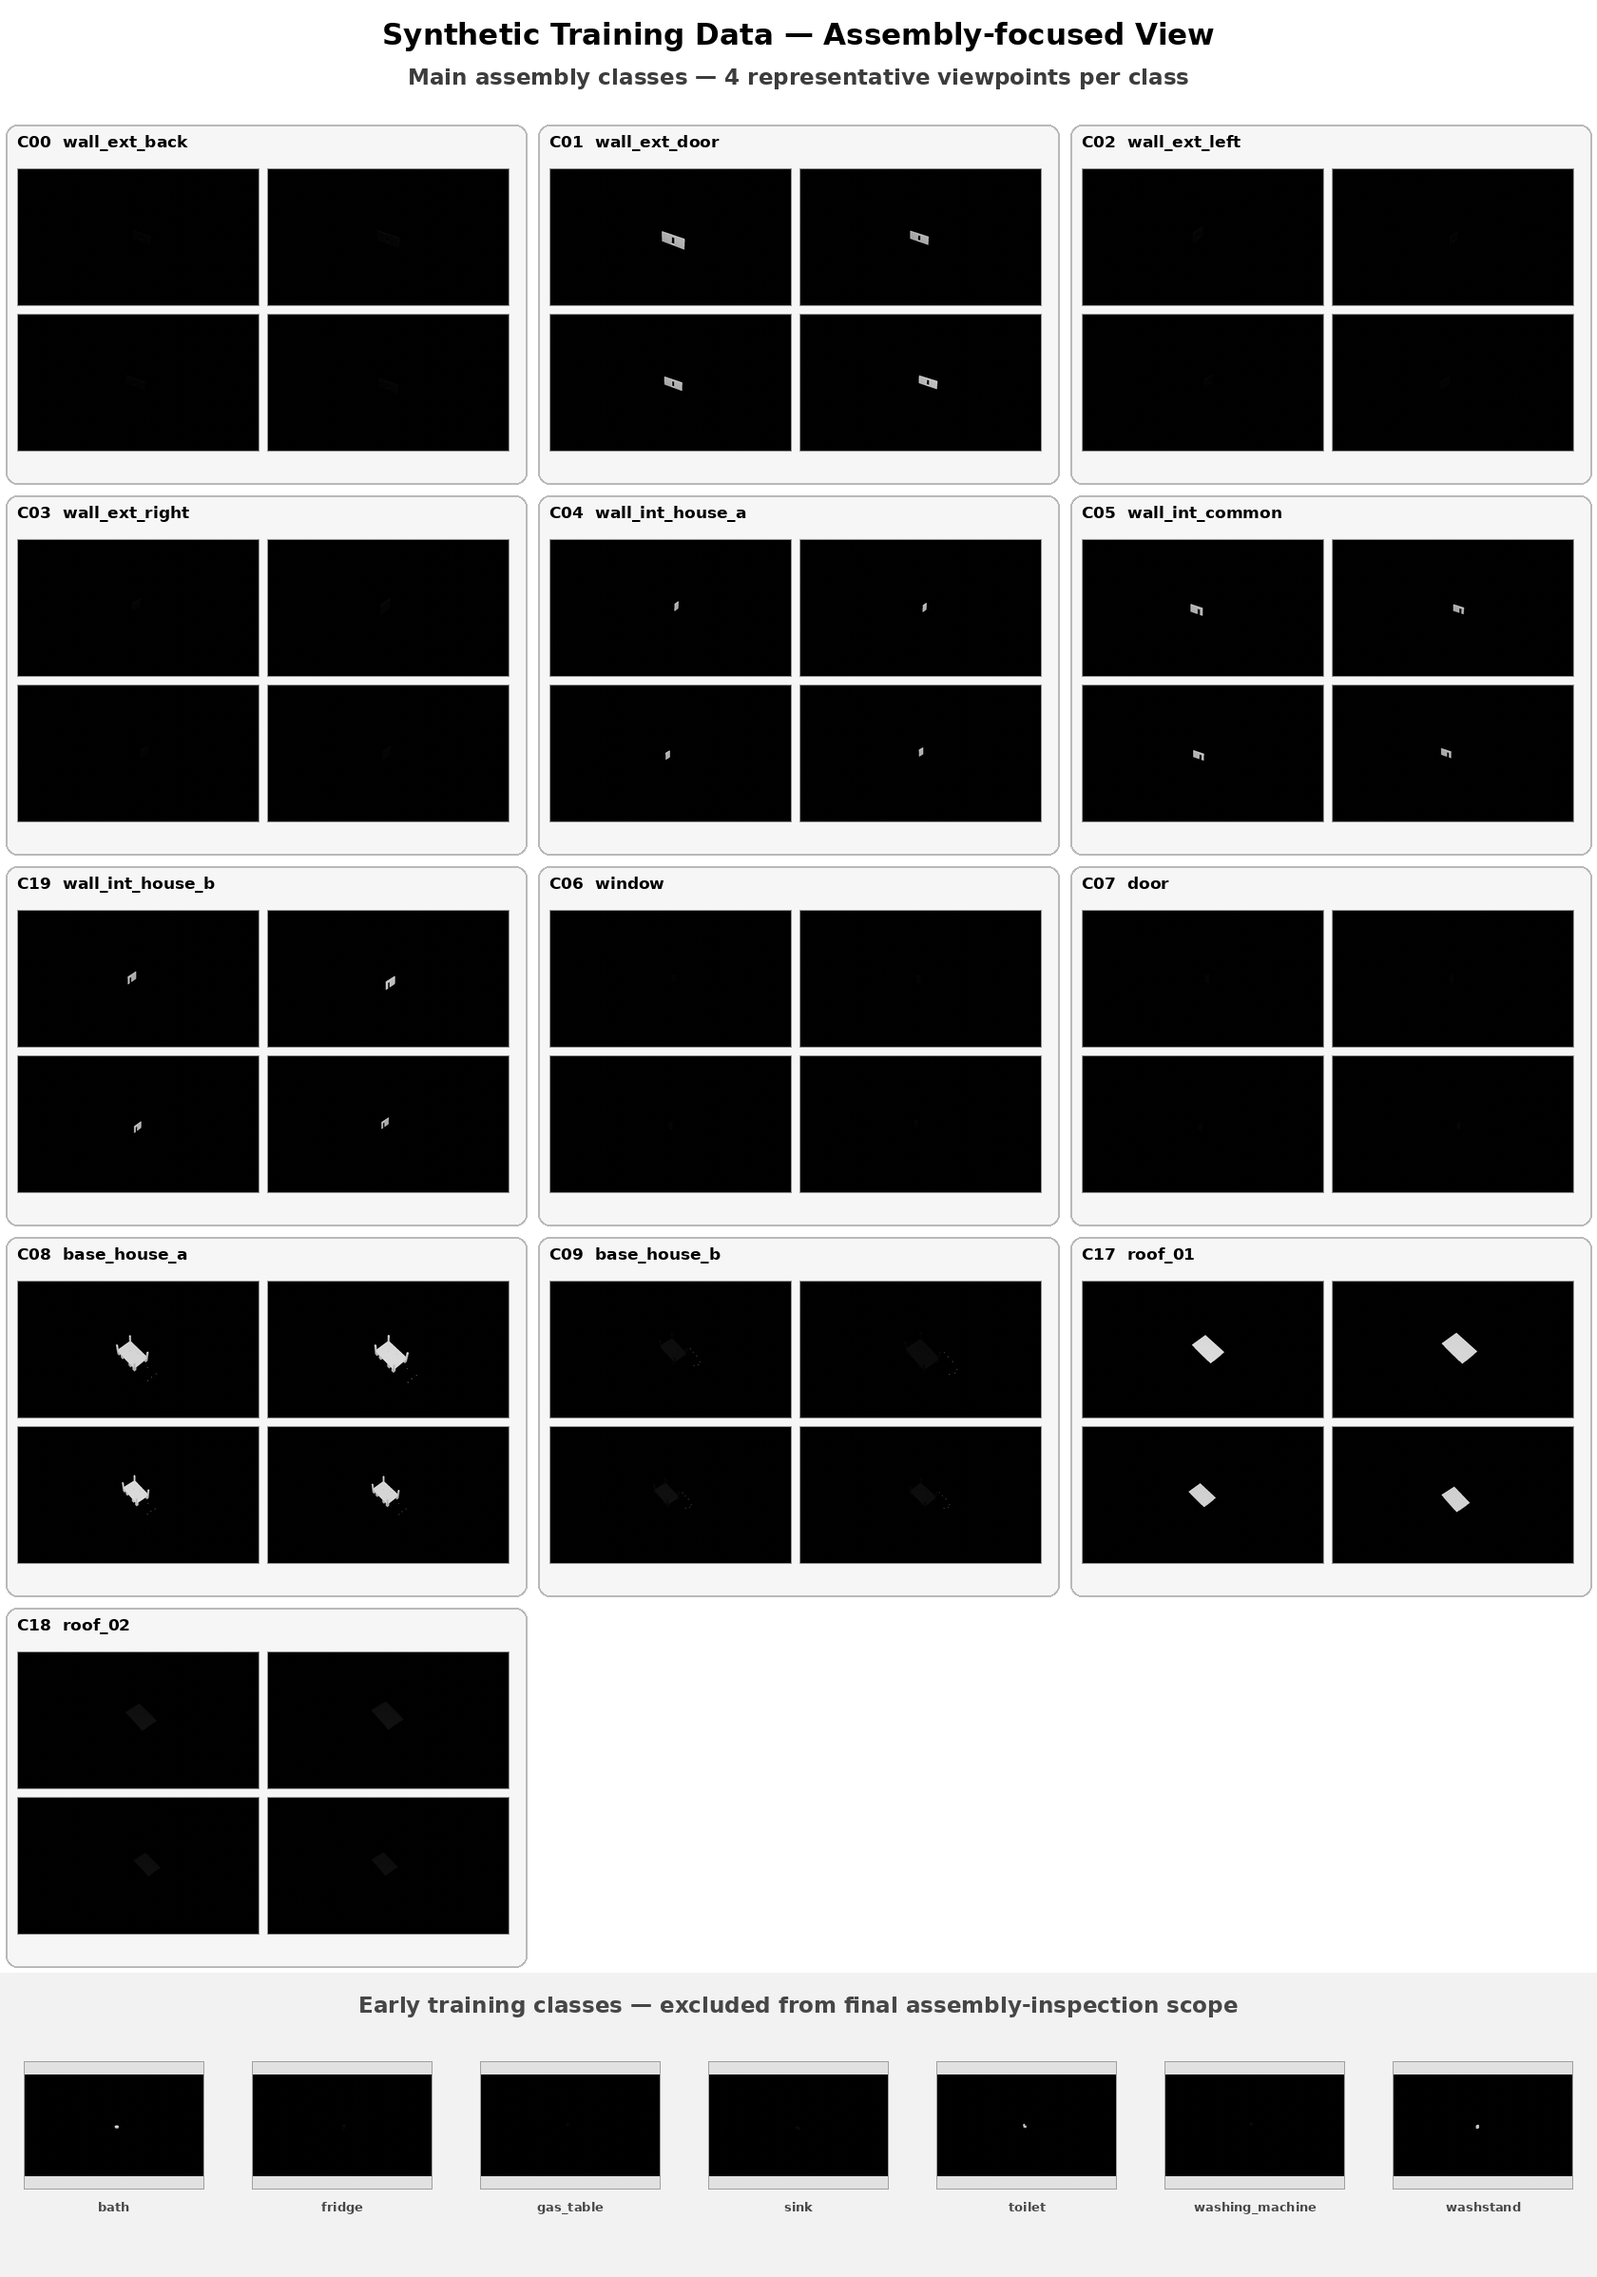
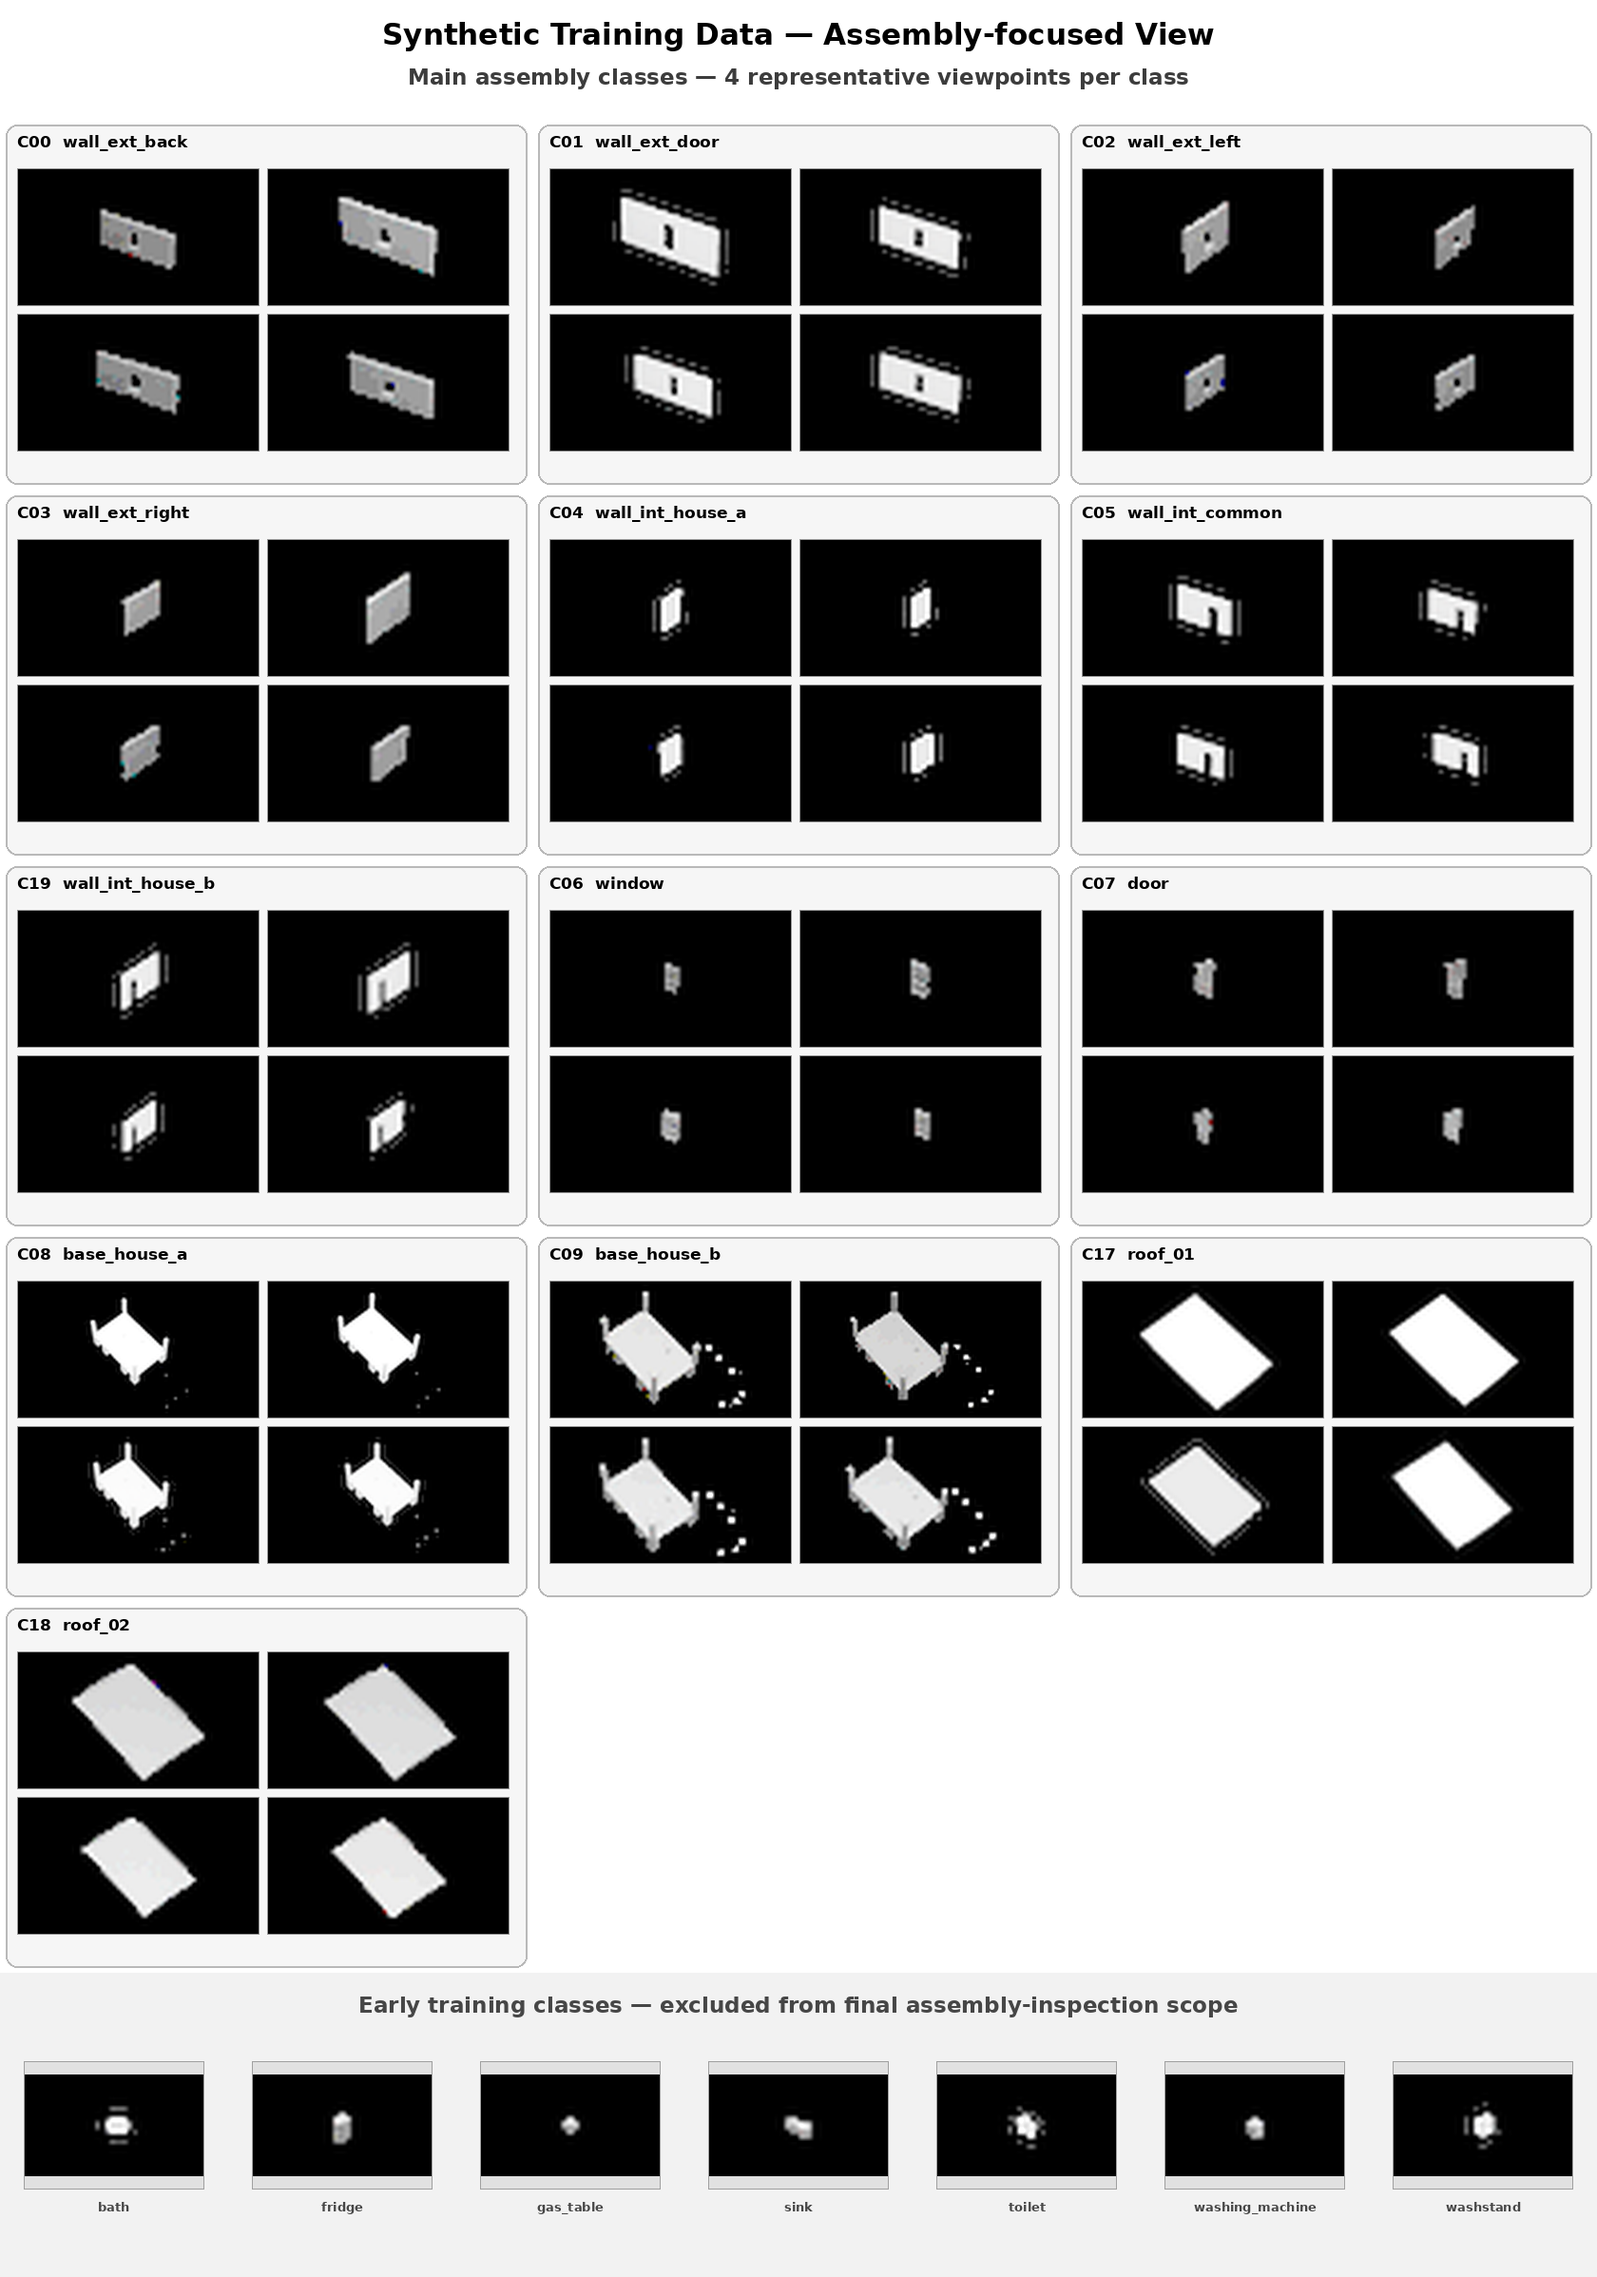
docs(ai-perception): refine architecture and synthetic sample visibility

diff --git a/ai_perception/docs/02_system_architecture.md b/ai_perception/docs/02_system_architecture.md
@@ -32,40 +32,43 @@ Vision은 다음 네 시스템 사이에서 동작합니다.
 4. **Robot Control / Unity**
 
 ```mermaid
-flowchart TB
+flowchart LR
+    subgraph EXT["외부 시스템"]
+        direction TB
+        S["Team Server / FMS"]
+        R["Robot Control"]
+        U["Unity Digital Twin"]
+        S <--> R
+    end
+
+    subgraph VIS["AI Perception / Vision"]
+        direction TB
+        I["입고 자재 검사<br/>YOLO + Auto Alignment + QA"]
+        F["Factory View Pipeline<br/>FFmpeg + ROS2"]
+        Q["PRE_ROOF 5방향 QC"]
+        H["HMV1 영상 전송"]
+
+        I --> H
+        F --> H
+        Q --> H
+    end
+
     subgraph CAM["카메라"]
+        direction TB
         C1["Incoming Inspection Camera"]
         C2["Factory View Camera<br/>Logitech C270"]
         C3["Intel RealSense D435<br/>RGB + Depth"]
     end
 
-    subgraph VIS["AI Perception / Vision"]
-        V1["입고 자재 검사<br/>YOLO + Auto Alignment + QA"]
-        V2["Factory View Pipeline<br/>FFmpeg + ROS2"]
-        V3["PRE_ROOF 5방향 QC"]
-        V4["HMV1 영상 전송"]
-    end
+    C1 --> I
+    C2 --> F
+    C3 --> Q
 
-    subgraph EXT["외부 시스템"]
-        S["Team Server / FMS"]
-        R["Robot Control"]
-        U["Unity Digital Twin"]
-    end
+    S <--> I
+    S <--> Q
+    R -. "D435 View 이동" .-> C3
 
-    C1 --> V1
-    C2 --> V2
-    C3 --> V3
-
-    V1 <--> S
-    V3 <--> S
-
-    S --> R
-    R -. D435 View 이동 .-> C3
-
-    V1 --> V4
-    V2 --> V4
-    V3 --> V4
-    V4 --> U
+    H --> U
 ```
 
 전체 아키텍처에서 Vision은 **검사 결과 생성과 실영상 제공**에 집중하고, 생산 순서와 로봇 이동은 각 담당 시스템이 관리합니다.
